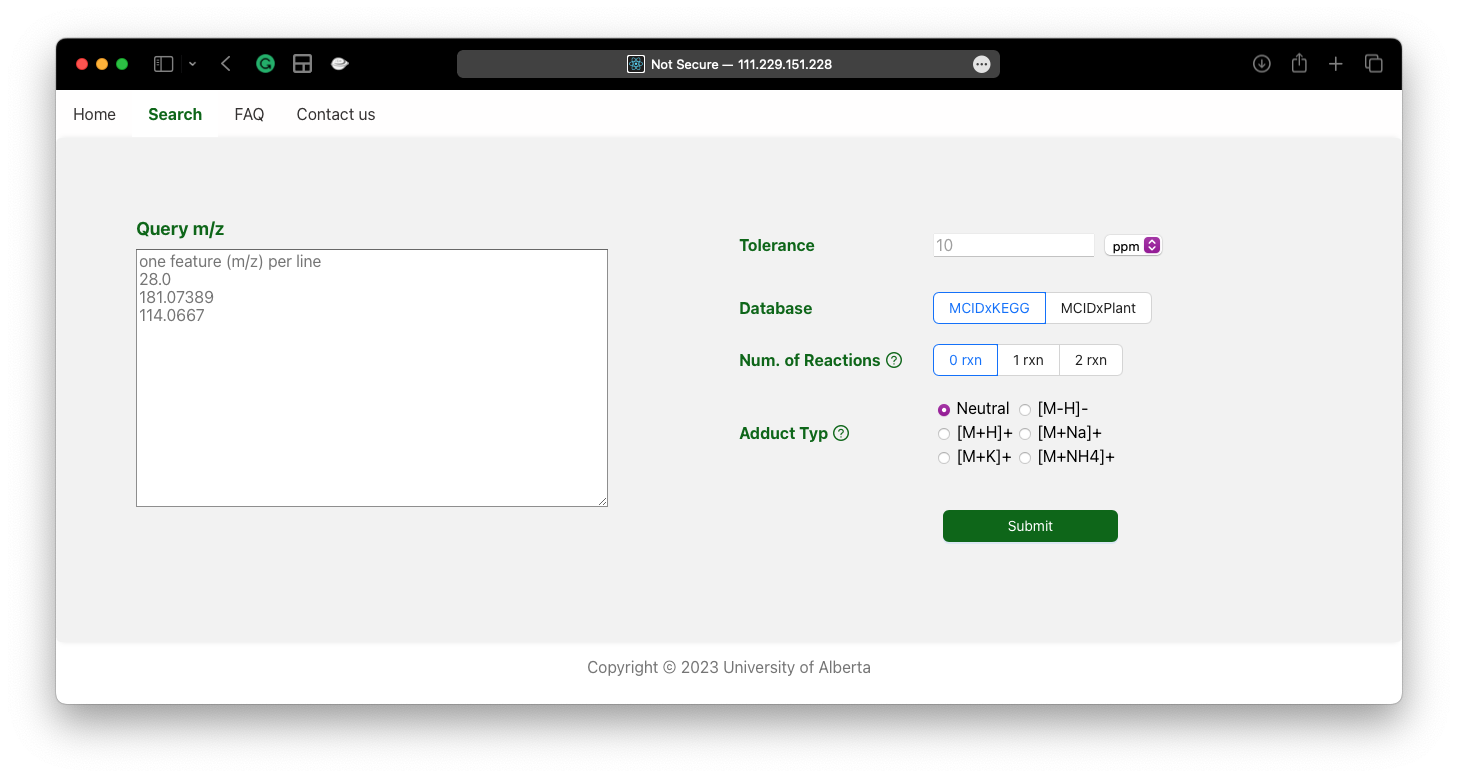
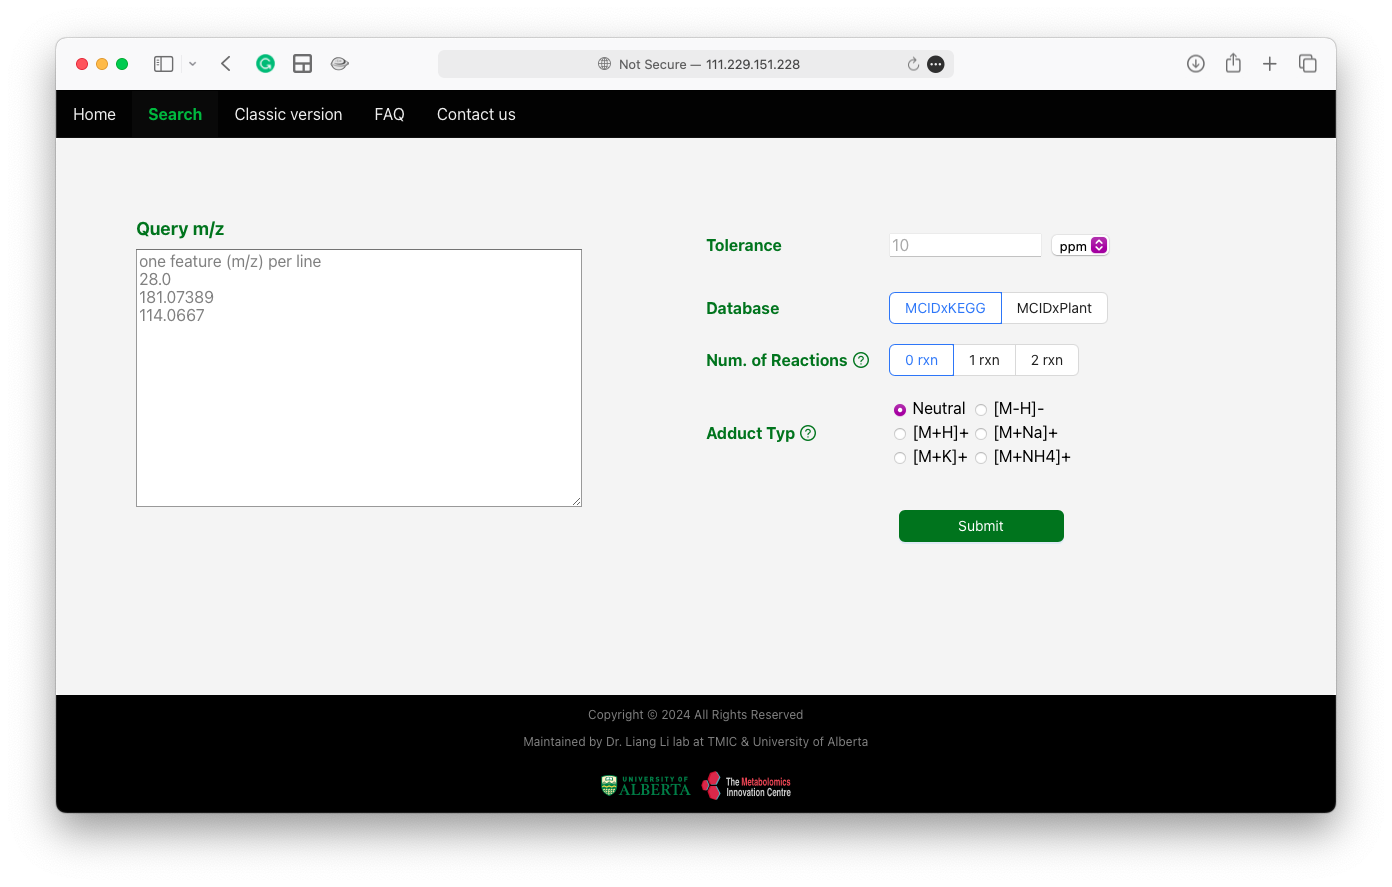
update

diff --git a/content/project/mcid/index.md b/content/project/mcid/index.md
@@ -13,17 +13,14 @@ links:
   icon_pack: fab
   name: Website
   url: http://111.229.151.228:5000
-- icon: github
-  icon_pack: fab
-  name: Code
-  url: https://github.com/Bowen999/LIME
+
 
 slides:
 summary: Metabolite library and annotation tools
 tags:
 - research
 - softwares
-title: MCID 2.0 & LIME
+title: MyCompoundID 2.0
 url_code: ""
 url_pdf: ""
 url_slides: ""
@@ -32,8 +29,9 @@ url_video: ""
 
 Metabolites play an important role in various biological functions, and the development of analytical chemistry techniques, especially Liquid Chromatography-Mass Spectrometry (LC-MS), has made high-throughput detection of metabolites possible. However, a major challenge in the field is that currently only about 30% of features detected by LC-MS can be identified, most features are "dark matter" due to the absence of corresponding matches in databases. Also, although many databases have been created and a huge number of compounds are present, there are no uniform naming standards among them, making manual large-scale searching a highly time-consuming and error-prone task.  
 
-To tackle these issues, we integrated resources from different databases through [InChIKey](https://www.inchi-trust.org), and predicting biochemical reaction products using [RDKit](https://www.rdkit.org) to construct 1 reaction and 2 reaction libraries. This approach expands the identification coverage. Following this concept, we are developing **[MCID 2.0](http://111.229.151.228:5000)** and **[LIME](https://github.com/Bowen999/LIME)**.
+We aim to enhance the coverage of MS feature annotations by analyzing and purifying public databases, and predicting "dark metabolite" (entities that are challenging to detect yet truly exist.) Furthermore, we also want to explore how to apply multidimensional feature information (MS1, MS2, retention time, molecular networks) to the CIL (Chemical Isotope Labeling) Metabolomics method (https://metabolomicscentre.ca/service/global-metabolomics-by-chemical-isotope-labeling-lc-ms/).
 
+Please test our [demo](http://111.229.151.228:5000/home).
 
 ![Figure_1](./mcid.png)
 ![Figure_1](https://user-images.githubusercontent.com/87933959/199609825-10a8c7fd-0634-41ff-bda9-bce508a09de2.png)
